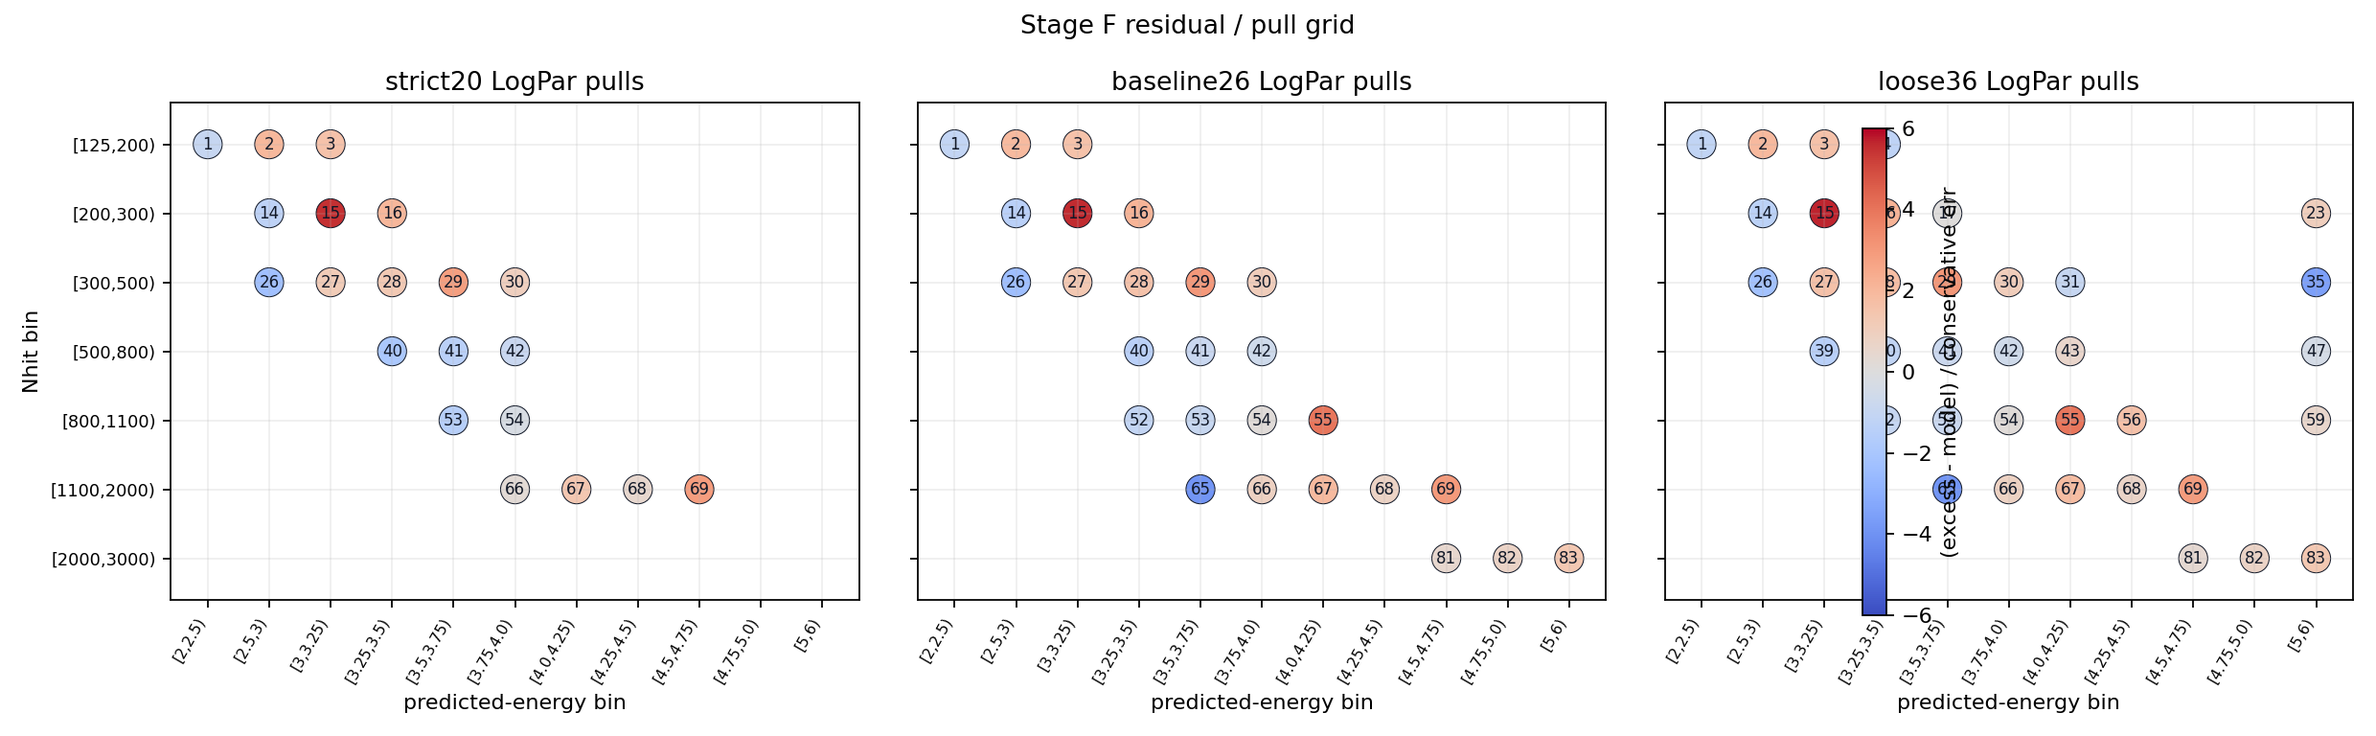
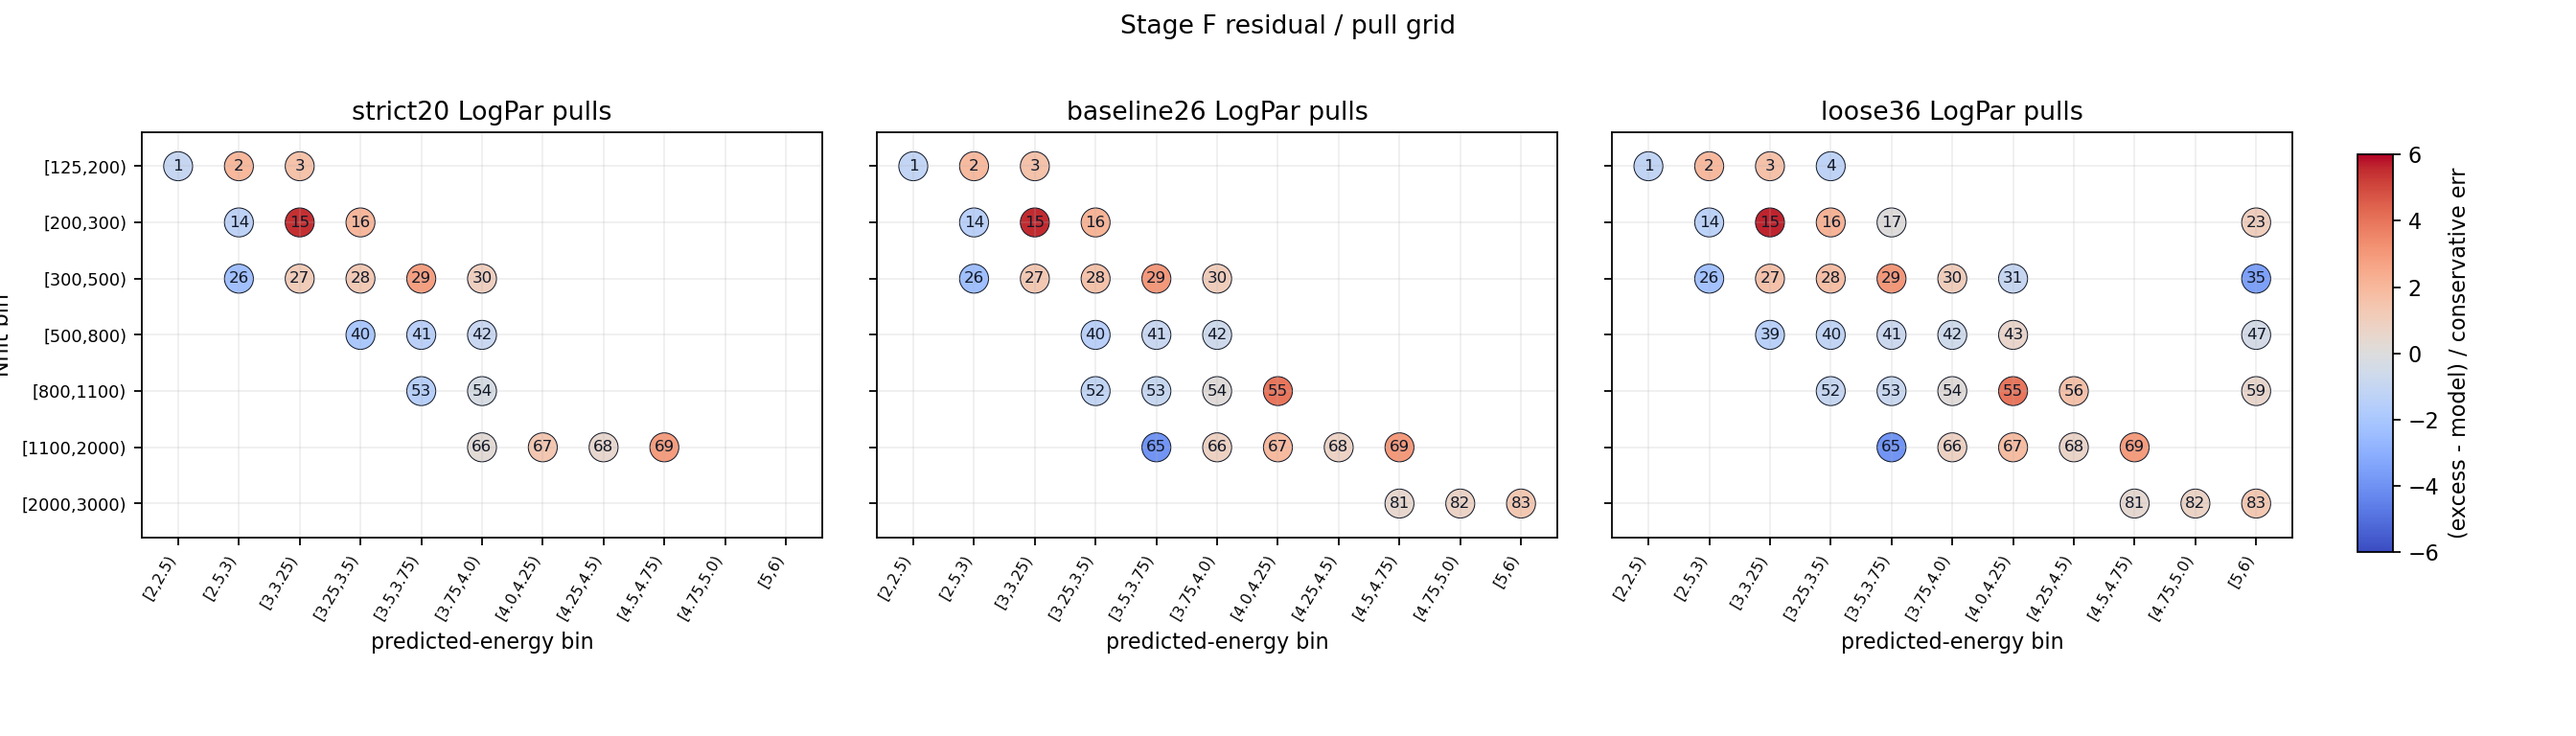
fix(report): keep v5 cell-selection pull-grid colorbar outside panels

diff --git a/apply/report/build_v5_cell_selection_comparison_report.py b/apply/report/build_v5_cell_selection_comparison_report.py
@@ -606,7 +606,7 @@ def plot_sed_overlay(runs: Dict[str, Dict[str, object]], path: Path) -> None:
 
 def plot_pull_grid(runs: Dict[str, Dict[str, object]], path: Path) -> None:
     plt = setup_matplotlib()
-    fig, axes = plt.subplots(1, 3, figsize=(15.5, 4.8), dpi=160, sharex=True, sharey=True)
+    fig, axes = plt.subplots(1, 3, figsize=(16.8, 4.8), dpi=160, sharex=True, sharey=True)
     all_nhit = sorted(
         {
             str(value)
@@ -649,9 +649,10 @@ def plot_pull_grid(runs: Dict[str, Dict[str, object]], path: Path) -> None:
     for ax in axes:
         ax.set_xlabel("predicted-energy bin")
     if sc is not None:
-        fig.colorbar(sc, ax=axes.ravel().tolist(), shrink=0.86, label="(excess - model) / conservative err")
+        cax = fig.add_axes([0.915, 0.25, 0.014, 0.54])
+        fig.colorbar(sc, cax=cax, label="(excess - model) / conservative err")
     fig.suptitle("Stage F residual / pull grid")
-    fig.tight_layout()
+    fig.subplots_adjust(left=0.055, right=0.89, bottom=0.27, top=0.82, wspace=0.08)
     path.parent.mkdir(parents=True, exist_ok=True)
     fig.savefig(path)
     plt.close(fig)
